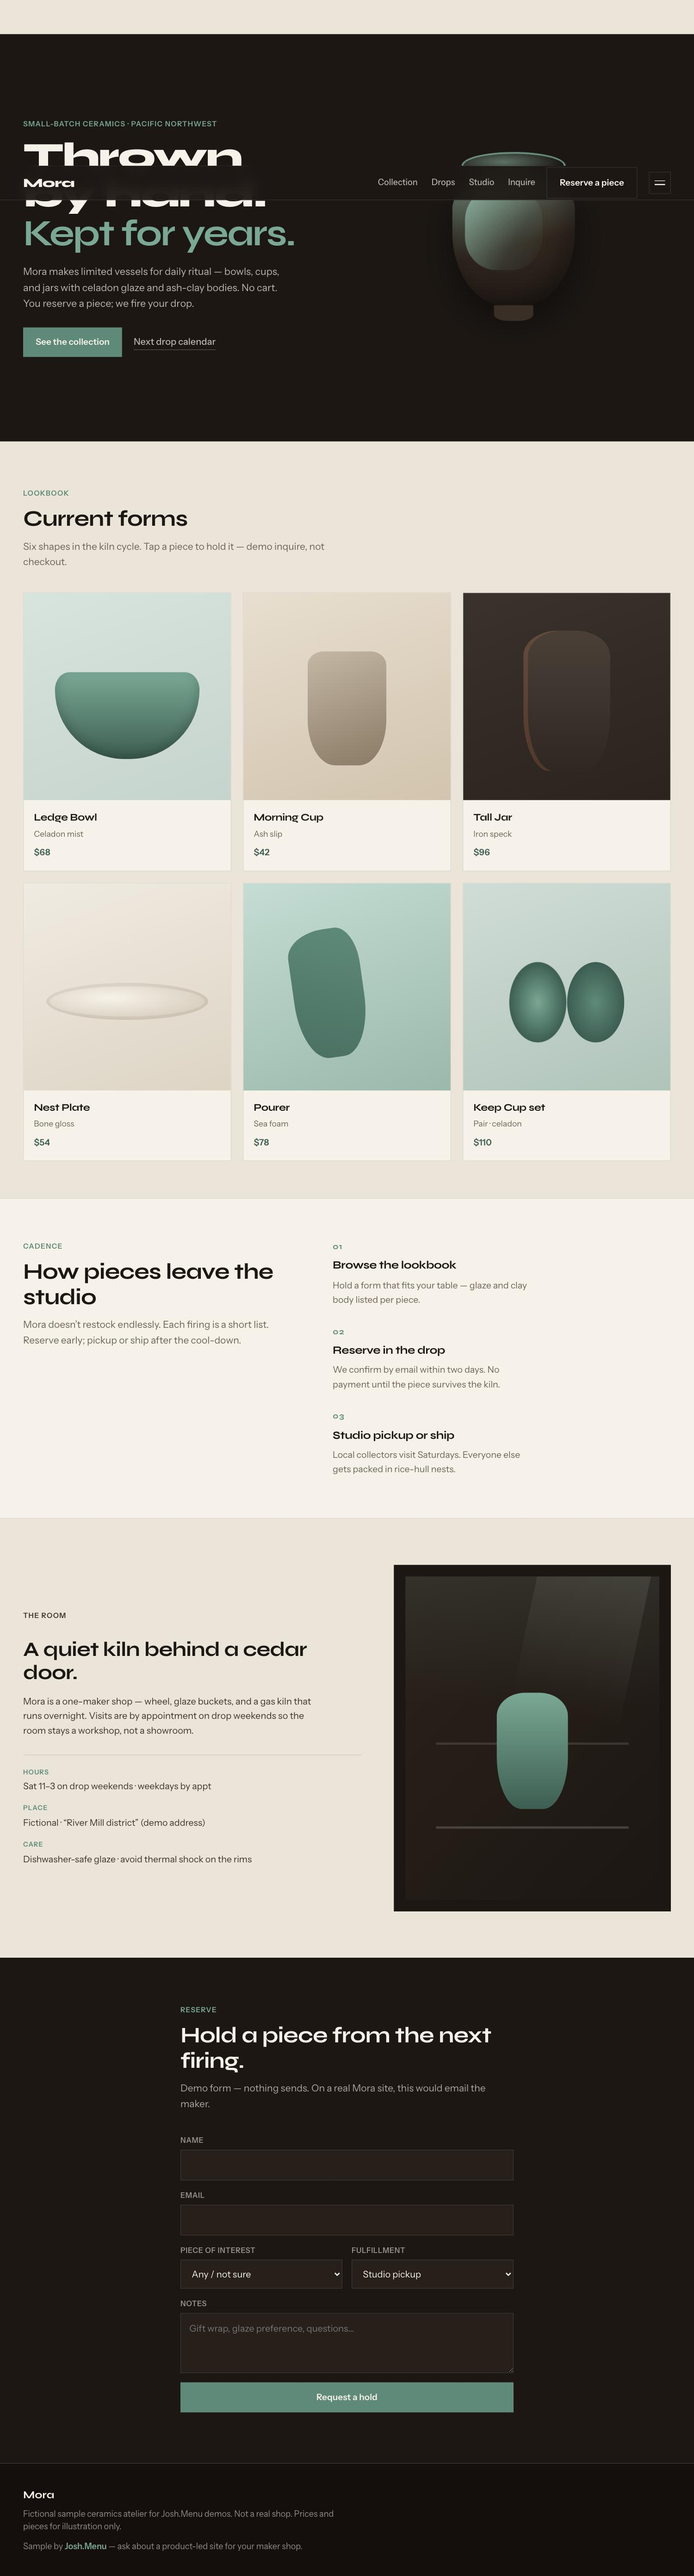
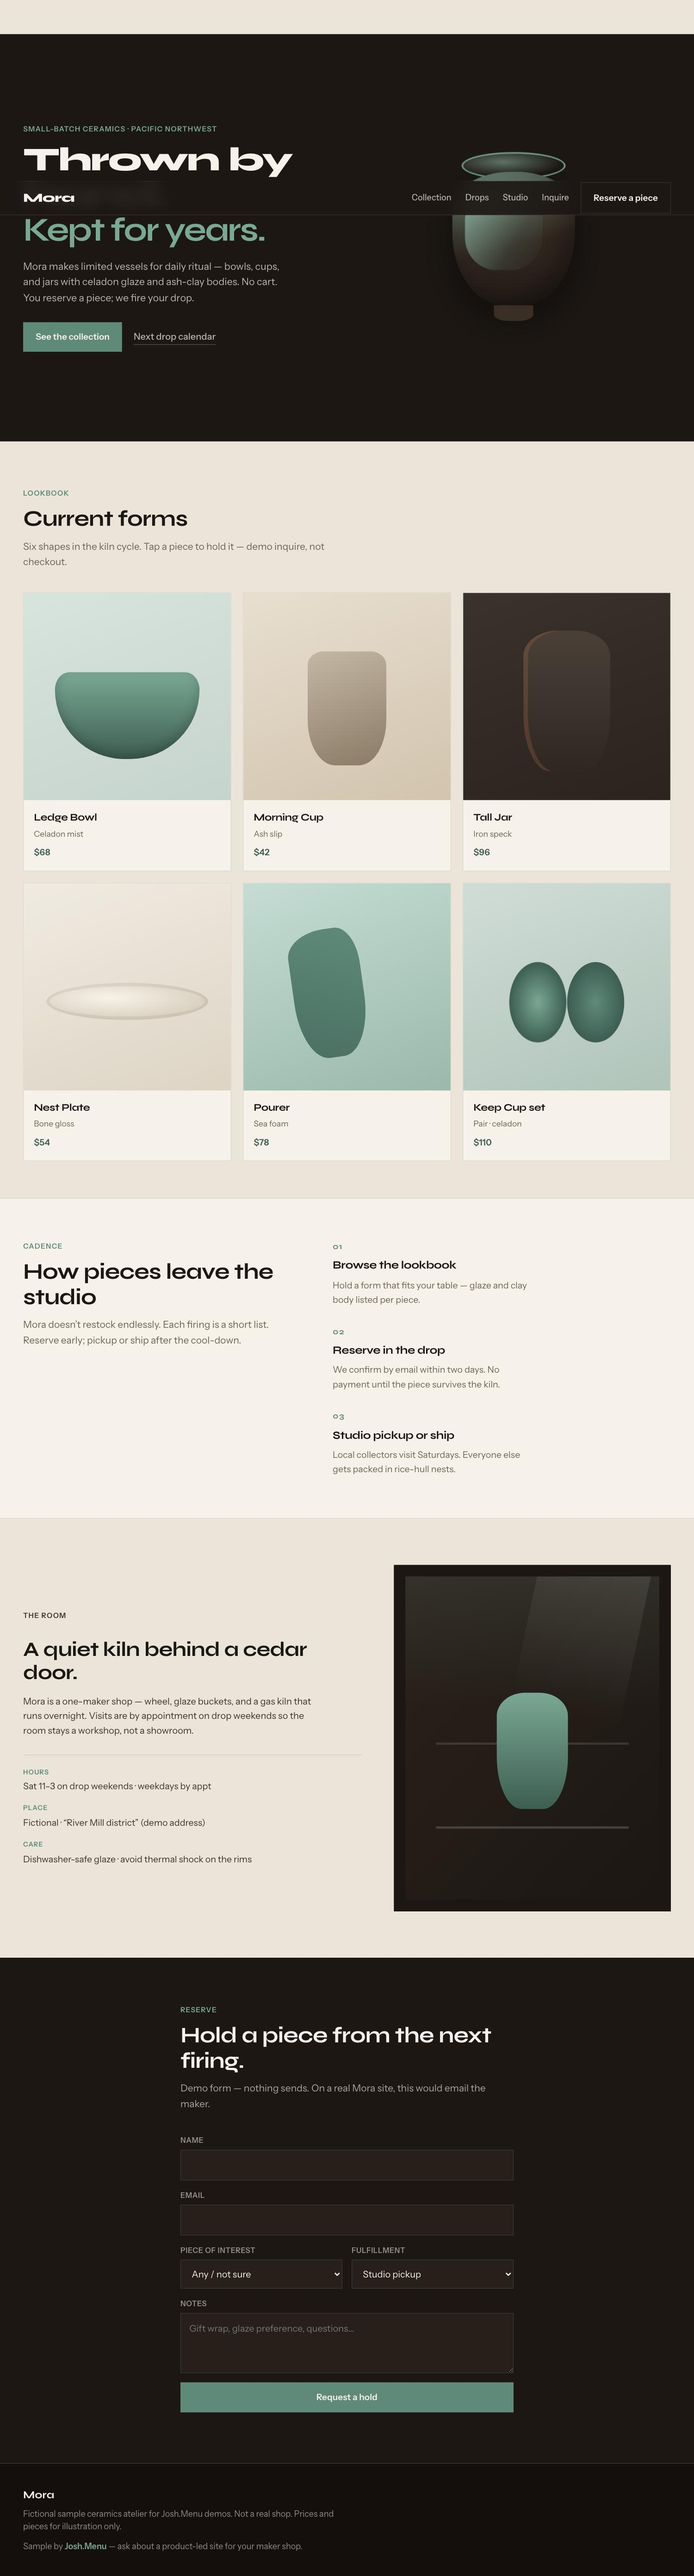
Fix Mora desktop nav hamburger and refresh sample tallshot.
Nav toggle display was overridden after the desktop media query, so links
and the menu button showed together. Recapture mora.jpg and stagger
homepage sample-scroll delays across seven cards.

Changed region(s): [[0.0307, 0.0311, 0.4293, 0.1554], [0.644, 0.0622, 0.828, 0.0932]]

diff --git a/index.html b/index.html
@@ -31,7 +31,7 @@
     <link rel="apple-touch-icon" href="/images/apple-touch-icon.png?v=jm2">
 
     <link rel="stylesheet" href="fonts.css">
-    <link rel="stylesheet" href="style.css?v=jm31">
+    <link rel="stylesheet" href="style.css?v=jm32">
     <script type="application/ld+json">
     {
       "@context": "https://schema.org",
@@ -273,7 +273,7 @@
                                 <span class="sample-scroll__url">mora.demo</span>
                             </div>
                             <div class="sample-scroll__viewport">
-                                <img class="sample-scroll__page" src="/images/samples/mora.jpg?v=1" alt="" width="1280" height="3200" loading="lazy" decoding="async">
+                                <img class="sample-scroll__page" src="/images/samples/mora.jpg?v=2" alt="" width="1280" height="3200" loading="lazy" decoding="async">
                             </div>
                             <span class="sample-card__badge">Sample</span>
                         </div>

diff --git a/samples/index.html b/samples/index.html
@@ -26,7 +26,7 @@
     <link rel="icon" href="/favicon.svg?v=jm4" type="image/svg+xml">
 
     <link rel="stylesheet" href="../fonts.css">
-    <link rel="stylesheet" href="../style.css?v=jm31">
+    <link rel="stylesheet" href="../style.css?v=jm32">
 </head>
 
 <body>
@@ -70,7 +70,7 @@
                             <span class="sample-scroll__url">mora.demo</span>
                         </div>
                         <div class="sample-scroll__viewport">
-                            <img class="sample-scroll__page" src="/images/samples/mora.jpg?v=1" alt="" width="1200" height="3000" loading="eager" decoding="async">
+                            <img class="sample-scroll__page" src="/images/samples/mora.jpg?v=2" alt="" width="1200" height="3000" loading="eager" decoding="async">
                         </div>
                         <span class="sample-card__badge">Sample</span>
                     </div>

diff --git a/menu/index.html b/menu/index.html
@@ -26,7 +26,7 @@
     <link rel="icon" href="/favicon.svg?v=jm4" type="image/svg+xml">
 
     <link rel="stylesheet" href="../fonts.css">
-    <link rel="stylesheet" href="../style.css?v=jm31">
+    <link rel="stylesheet" href="../style.css?v=jm32">
 </head>
 
 <body>
@@ -146,7 +146,7 @@
                 <li>
                     <a class="menu-plate" href="/samples/mora/">
                         <div class="menu-plate__shot" aria-hidden="true">
-                            <img src="/images/samples/mora.jpg?v=1" alt="" width="640" height="800" loading="eager" decoding="async">
+                            <img src="/images/samples/mora.jpg?v=2" alt="" width="640" height="800" loading="eager" decoding="async">
                         </div>
                         <div class="menu-plate__body">
                             <p class="menu-plate__course">Maker · system-shaped</p>

diff --git a/samples/mora/style.css b/samples/mora/style.css
@@ -209,12 +209,6 @@ ul, ol { list-style: none; }
 .mast__nav a:hover { color: var(--bone); }
 .mast__cta { display: none; }
 
-@media (min-width: 820px) {
-  .mast__nav { display: flex; }
-  .mast__cta { display: inline-flex; }
-  .nav-toggle { display: none; }
-}
-
 .nav-toggle {
   width: 2.4rem;
   height: 2.4rem;
@@ -226,6 +220,7 @@ ul, ol { list-style: none; }
   align-items: center;
   gap: 5px;
   cursor: pointer;
+  flex-shrink: 0;
 }
 .nav-toggle span {
   display: block;
@@ -247,6 +242,13 @@ ul, ol { list-style: none; }
   text-decoration: none;
   padding: 0.65rem 0;
   font-weight: 500;
+}
+
+/* After .nav-toggle base — later `display` must not undo desktop hide */
+@media (min-width: 820px) {
+  .mast__nav { display: flex; }
+  .mast__cta { display: inline-flex; }
+  .nav-toggle { display: none; }
 }
 
 /* —— Hero: one composition — copy + vessel stage —— */

diff --git a/studio.css b/studio.css
@@ -1203,11 +1203,27 @@ body.is-nav-open {
     }
 
     .samples-grid .sample-card:nth-child(2) .sample-scroll__page {
-        animation-delay: -6s;
+        animation-delay: -3s;
     }
 
     .samples-grid .sample-card:nth-child(3) .sample-scroll__page {
+        animation-delay: -6s;
+    }
+
+    .samples-grid .sample-card:nth-child(4) .sample-scroll__page {
+        animation-delay: -9s;
+    }
+
+    .samples-grid .sample-card:nth-child(5) .sample-scroll__page {
         animation-delay: -12s;
+    }
+
+    .samples-grid .sample-card:nth-child(6) .sample-scroll__page {
+        animation-delay: -15s;
+    }
+
+    .samples-grid .sample-card:nth-child(7) .sample-scroll__page {
+        animation-delay: -2s;
     }
 
     .sample-card__link:hover .sample-scroll__page,

diff --git a/style.css b/style.css
@@ -1203,11 +1203,27 @@ body.is-nav-open {
     }
 
     .samples-grid .sample-card:nth-child(2) .sample-scroll__page {
-        animation-delay: -6s;
+        animation-delay: -3s;
     }
 
     .samples-grid .sample-card:nth-child(3) .sample-scroll__page {
+        animation-delay: -6s;
+    }
+
+    .samples-grid .sample-card:nth-child(4) .sample-scroll__page {
+        animation-delay: -9s;
+    }
+
+    .samples-grid .sample-card:nth-child(5) .sample-scroll__page {
         animation-delay: -12s;
+    }
+
+    .samples-grid .sample-card:nth-child(6) .sample-scroll__page {
+        animation-delay: -15s;
+    }
+
+    .samples-grid .sample-card:nth-child(7) .sample-scroll__page {
+        animation-delay: -2s;
     }
 
     .sample-card__link:hover .sample-scroll__page,

diff --git a/samples/mora/index.html b/samples/mora/index.html
@@ -8,7 +8,7 @@
   <meta name="robots" content="noindex, follow">
   <meta name="theme-color" content="#1c1713">
   <link rel="icon" href="favicon.svg" type="image/svg+xml">
-  <link rel="stylesheet" href="style.css?v=4">
+  <link rel="stylesheet" href="style.css?v=5">
   <link rel="stylesheet" href="../demo-chat.css?v=1">
   <link rel="canonical" href="https://josh.menu/samples/mora/">
   <meta property="og:type" content="website">

diff --git a/contact.html b/contact.html
@@ -23,7 +23,7 @@
     <meta name="robots" content="noindex">
 
     <link rel="stylesheet" href="fonts.css">
-    <link rel="stylesheet" href="style.css?v=jm31">
+    <link rel="stylesheet" href="style.css?v=jm32">
 </head>
 
 <body>
